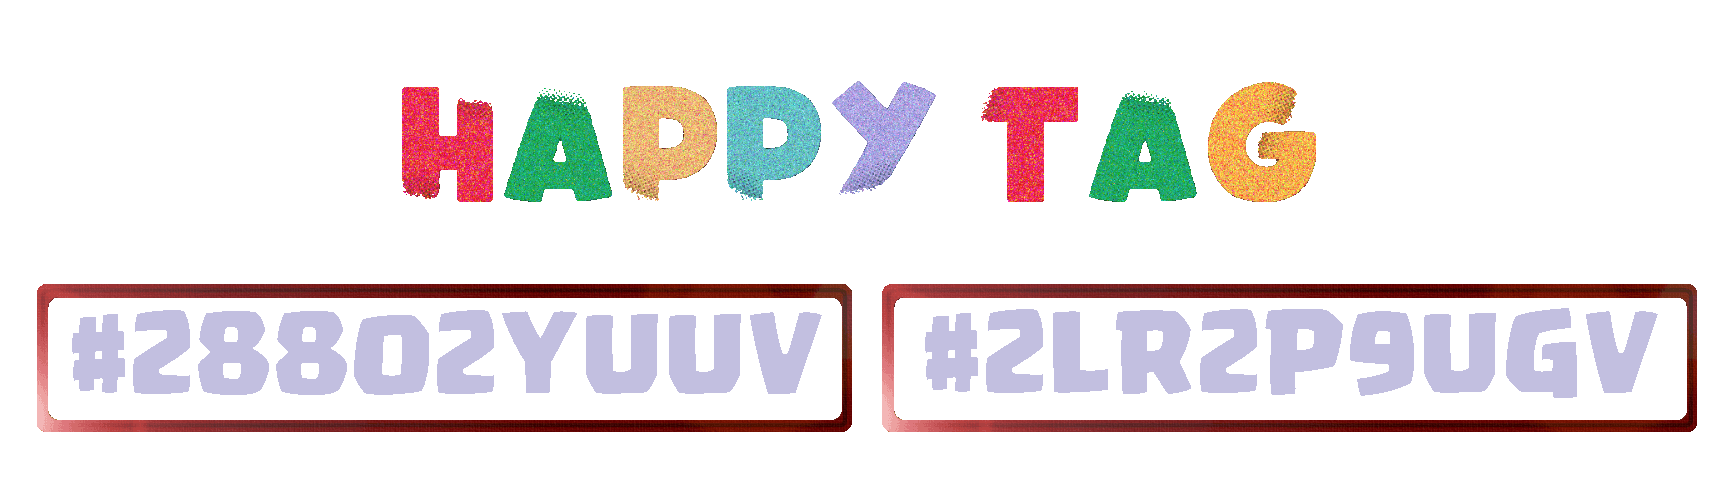
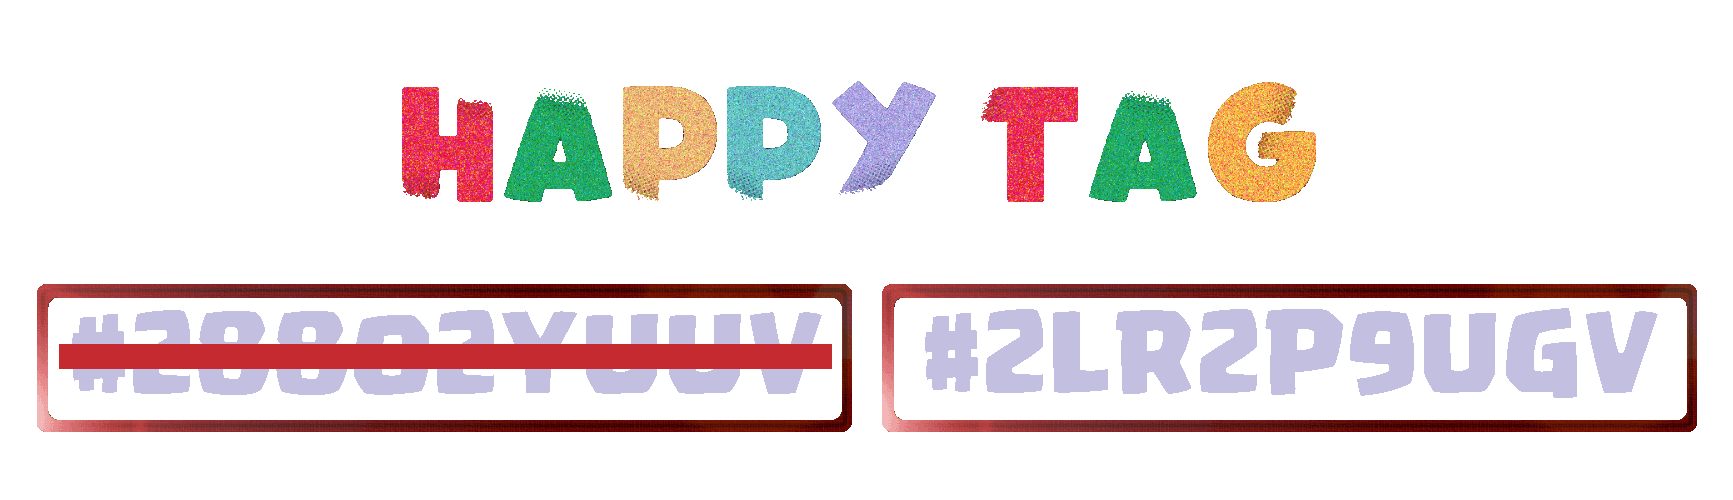
nowe aktualności + tv + tagi

Changed region(s): [[0.0312, 0.69, 0.4986, 0.75]]

diff --git a/gzgtv/nasz-wybor/index.html b/gzgtv/nasz-wybor/index.html
@@ -183,6 +183,15 @@
   <div class="flex flex-col lg:flex-row justify-center">
     <div class="p-2 mt-3 flex flex-col lg:flex-row justify-center">
       <iframe
+        src="https://www.youtube.com/embed/5lUU8YJ7mJs"
+        frameborder="0"
+        allow="accelerometer; autoplay; encrypted-media; gyroscope; picture-in-picture"
+        allowfullscreen
+        class="h-48"
+      ></iframe>
+    </div>
+    <div class="p-2 mt-3 flex flex-col lg:flex-row justify-center">
+      <iframe
         src="https://www.youtube.com/embed/Qnp427WFJRY"
         frameborder="0"
         allow="accelerometer; autoplay; encrypted-media; gyroscope; picture-in-picture"
@@ -199,6 +208,8 @@
         class="h-48"
       ></iframe>
     </div>
+  </div>
+  <div class="flex flex-col lg:flex-row justify-center">
     <div class="p-2 mt-3 flex flex-col lg:flex-row justify-center">
       <iframe
         src="https://www.youtube.com/embed/gpQtPAgmB3c"
@@ -208,8 +219,6 @@
         class="h-48"
       ></iframe>
     </div>
-  </div>
-  <div class="flex flex-col lg:flex-row justify-center">
     <div class="p-2 mt-3 flex flex-col lg:flex-row justify-center">
       <iframe
         src="https://www.youtube.com/embed/_EfaU9rYOSs"
@@ -219,16 +228,8 @@
         class="h-48"
       ></iframe>
     </div>
+
     <!--
-    <div class="p-2 mt-3 flex flex-col lg:flex-row justify-center">
-      <iframe
-        src=""
-        frameborder="0"
-        allow="accelerometer; autoplay; encrypted-media; gyroscope; picture-in-picture"
-        allowfullscreen
-        class="h-48"
-      ></iframe>
-    </div>
     <div class="p-2 mt-3 flex flex-col lg:flex-row justify-center">
       <iframe
         src=""

diff --git a/aktualnosci/index.html b/aktualnosci/index.html
@@ -180,6 +180,9 @@
 </div>
 
 <div class="flex flex-wrap -mx-2">
+	<a href="/regulaminy/happy-league" class="md:w-1/2 p-2">
+		<img class="rounded shadow" src="/assets/img/aktualnosci/HL1.jpg" />
+	</a>
   <a href="https://twitter.com/GrandZoneGaming/status/1261393282334101507" class="md:w-1/2 p-2">
 		<img class="rounded shadow" src="/assets/img/aktualnosci/polska.jpg" />
 	</a>

diff --git a/szansa-dnia/index.html b/szansa-dnia/index.html
@@ -181,7 +181,7 @@
 
 <div class="mx-auto justify-center">
   <a href="/happy-tags">
-    <img src="/assets/img/happytagi5.png" class="md:w-64 w-56 mx-auto" />
+    <img src="/assets/img/happytagi6.png" class="md:w-64 w-56 mx-auto" />
   </a>
   <form action="https://api.staticforms.xyz/submit" method="POST">
     <div class="flex flex-col items-center mt-8 sm:mt-0 w-56 mx-auto">

diff --git a/happy-tags/index.html b/happy-tags/index.html
@@ -208,10 +208,10 @@
   <div class="md:w-1/3 p-2">
     <img class="rounded shadow" src="/assets/img/happytagi7.png" />
   </div>
+  -->
   <div class="md:w-1/3 p-2">
     <img class="rounded shadow" src="/assets/img/happytagi6.png" />
   </div>
-  -->
   <div class="md:w-1/3 p-2">
     <img class="rounded shadow" src="/assets/img/happytagi5.png" />
   </div>
